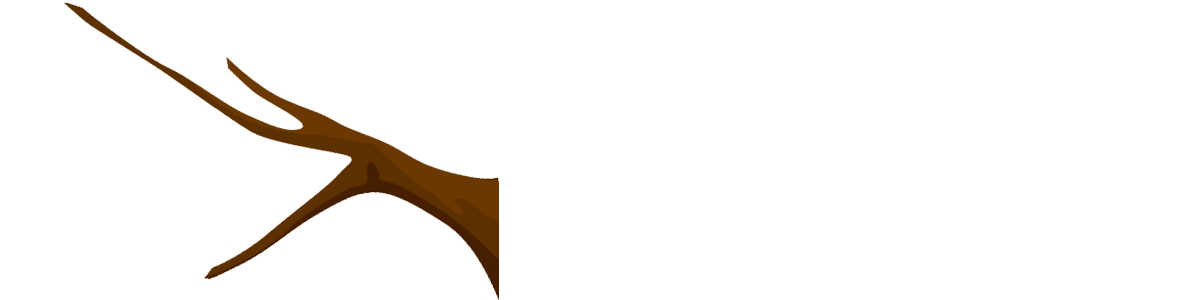
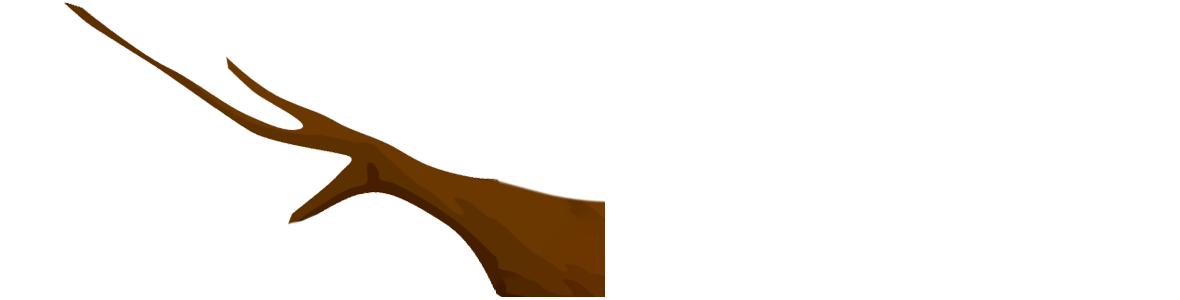
update

Changed region(s): [[0.3966, 0.6, 0.5186, 0.99], [0.1525, 0.72, 0.2746, 0.93]]

diff --git a/src/main/resources/GameWindow/PlayerPane/style.css b/src/main/resources/GameWindow/PlayerPane/style.css
@@ -30,18 +30,11 @@
 
 .playerPane {
     -fx-background-repeat: stretch;
-    -fx-background-size: auto 80%;
-
-}
-
-#playerPaneLeft {
+    -fx-background-size: auto 100%;
     -fx-background-position: left bottom;
     -fx-background-image: url("img/characters/character_1_left.png");
 }
-#playerPaneRight {
-    -fx-background-position: right bottom;
-    -fx-background-image: url("img/characters/character_1_right.png");
-}
+
 
 .branch {
     -fx-background-repeat: stretch;
@@ -51,23 +44,16 @@
 }
 
 .branchEmpty {
-    -fx-background-color: rgba(12, 12, 14, 0.3);
+    /* make it transparent after debugging */
+    -fx-background-color: rgba(12, 12, 14, 0.4);
 }
 
-.branchLeftBig {
+.branchLeft {
     -fx-background-image: url("img/tree/left_0.png");
 }
 
-.branchLeftSmall {
-    -fx-background-color: rgba(12, 12, 14, 0.3);
-}
-
-.branchRightBig {
+.branchRight {
     -fx-background-image: url("img/tree/right_0.png");
-}
-
-.branchRightSmall {
-    -fx-background-image: url("img/tree/right_1.png");
 }
 
 #sign {
@@ -76,4 +62,11 @@
     -fx-max-width: 250px;
     -fx-background-position: center top;
     -fx-background-image: url("img/sign.png");
+}
+
+.left {
+    -fx-background-color: red;
+}
+.right {
+    -fx-background-color: blue;
 }

diff --git a/src/main/java/game/window/PlayerPane.java b/src/main/java/game/window/PlayerPane.java
@@ -1,6 +1,7 @@
 package game.window;
 
 
+import javafx.collections.ObservableList;
 import javafx.fxml.FXMLLoader;
 import javafx.scene.control.Label;
 import javafx.scene.image.ImageView;
@@ -20,6 +21,7 @@ public class PlayerPane extends StackPane {
     private int currentSide = 0;
     public static final int LEFT_SIDE = 0;
     public static final int RIGHT_SIDE = 1;
+    public static final int EMPTY_SIDE = 2;
 
     private double width;
     private double height;
@@ -163,17 +165,40 @@ public class PlayerPane extends StackPane {
 //        pt.play();
     }
 
-    public void placeLumberjack(int colIndex) {
-        flipLumberjack(colIndex);
-        //GridPane player = (GridPane) this.lookup("#playerLayer");
-    }
-
-    private void flipLumberjack(int site) {
-        if (site != currentSide) {
-            currentSide = site;
-            System.out.println("Current site is " + site);
+    public void placeLumberjack(int side) {
+        if (side != currentSide) {
+            currentSide = side;
+            Pane player = (Pane) this.lookup("#playerPane");
+            setSideCssClass(player, side);
         }
     }
+
+    private void setSideCssClass(Pane pane, int side) {
+        switch(side){
+            case LEFT_SIDE -> {
+                pane.getStyleClass().remove("right");
+                pane.getStyleClass().add("left");
+            }
+            case RIGHT_SIDE -> {
+                pane.getStyleClass().remove("left");
+                pane.getStyleClass().add("right");
+            }
+            case EMPTY_SIDE -> {
+                pane.getStyleClass().remove("left");
+                pane.getStyleClass().remove("right");
+            }
+        }
+    }
+    private String getSideCssClass(Pane pane){
+        ObservableList<String> CssClasses = pane.getStyleClass();
+        if(CssClasses.contains("left"))
+            return "left";
+        else if (CssClasses.contains("left"))
+            return "right";
+        else
+            return "empty";
+    }
+
 
     public void removeLumberjack() {
         System.out.println("remove lumber jack");
